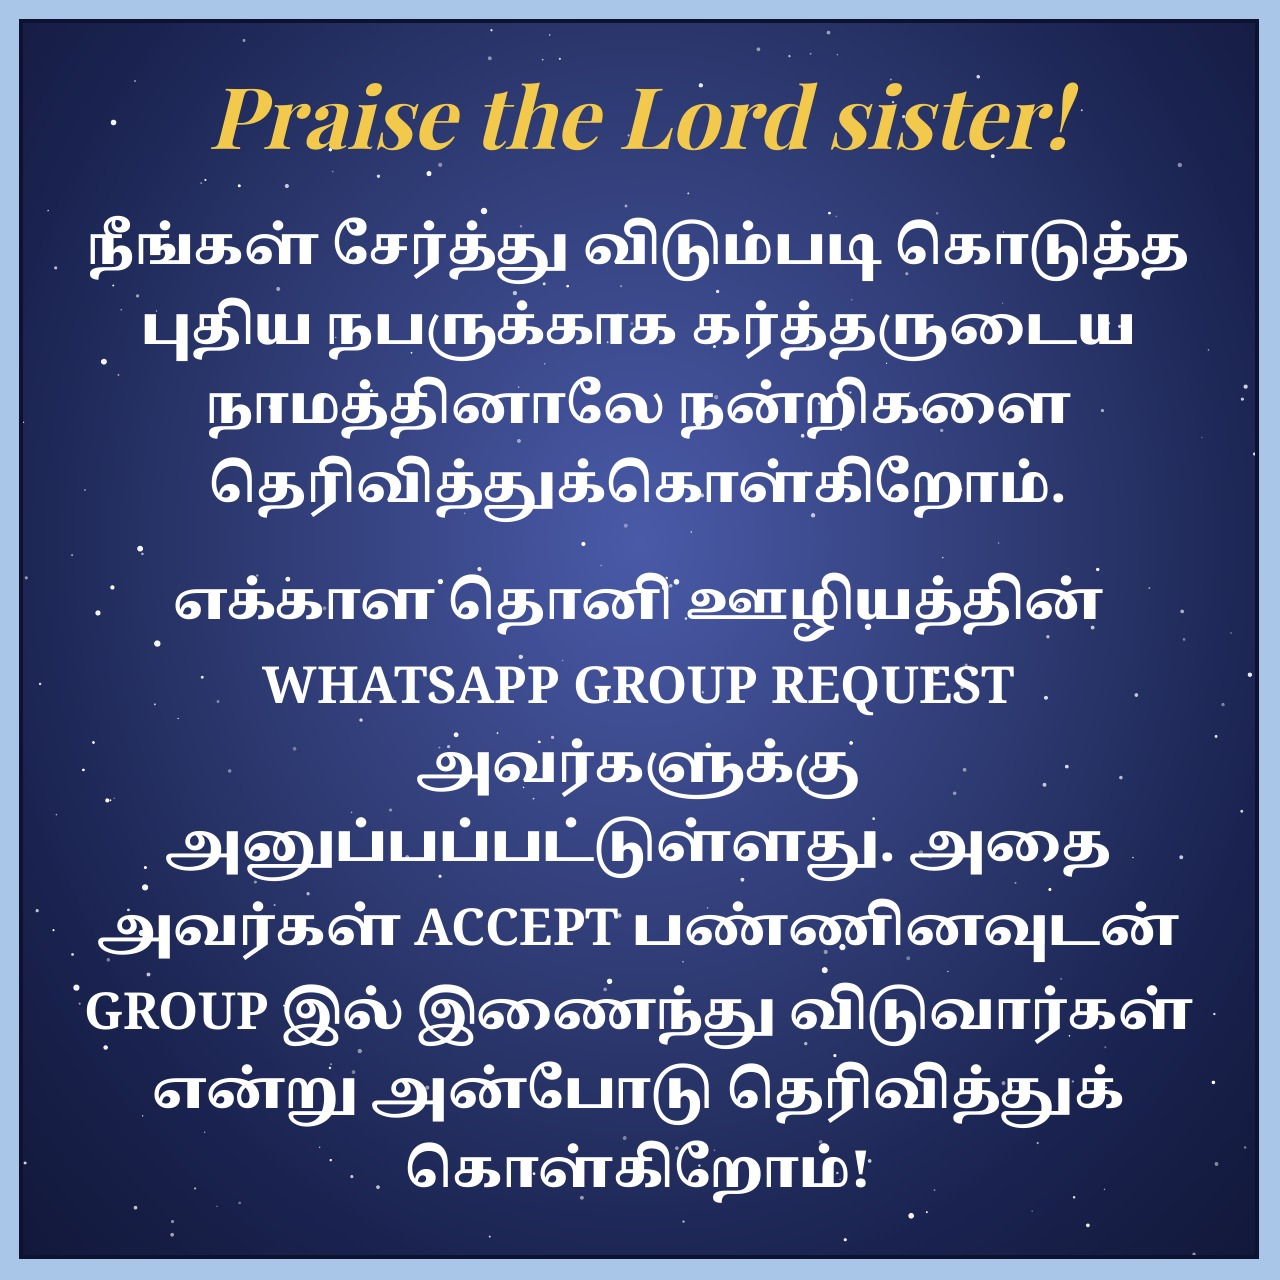
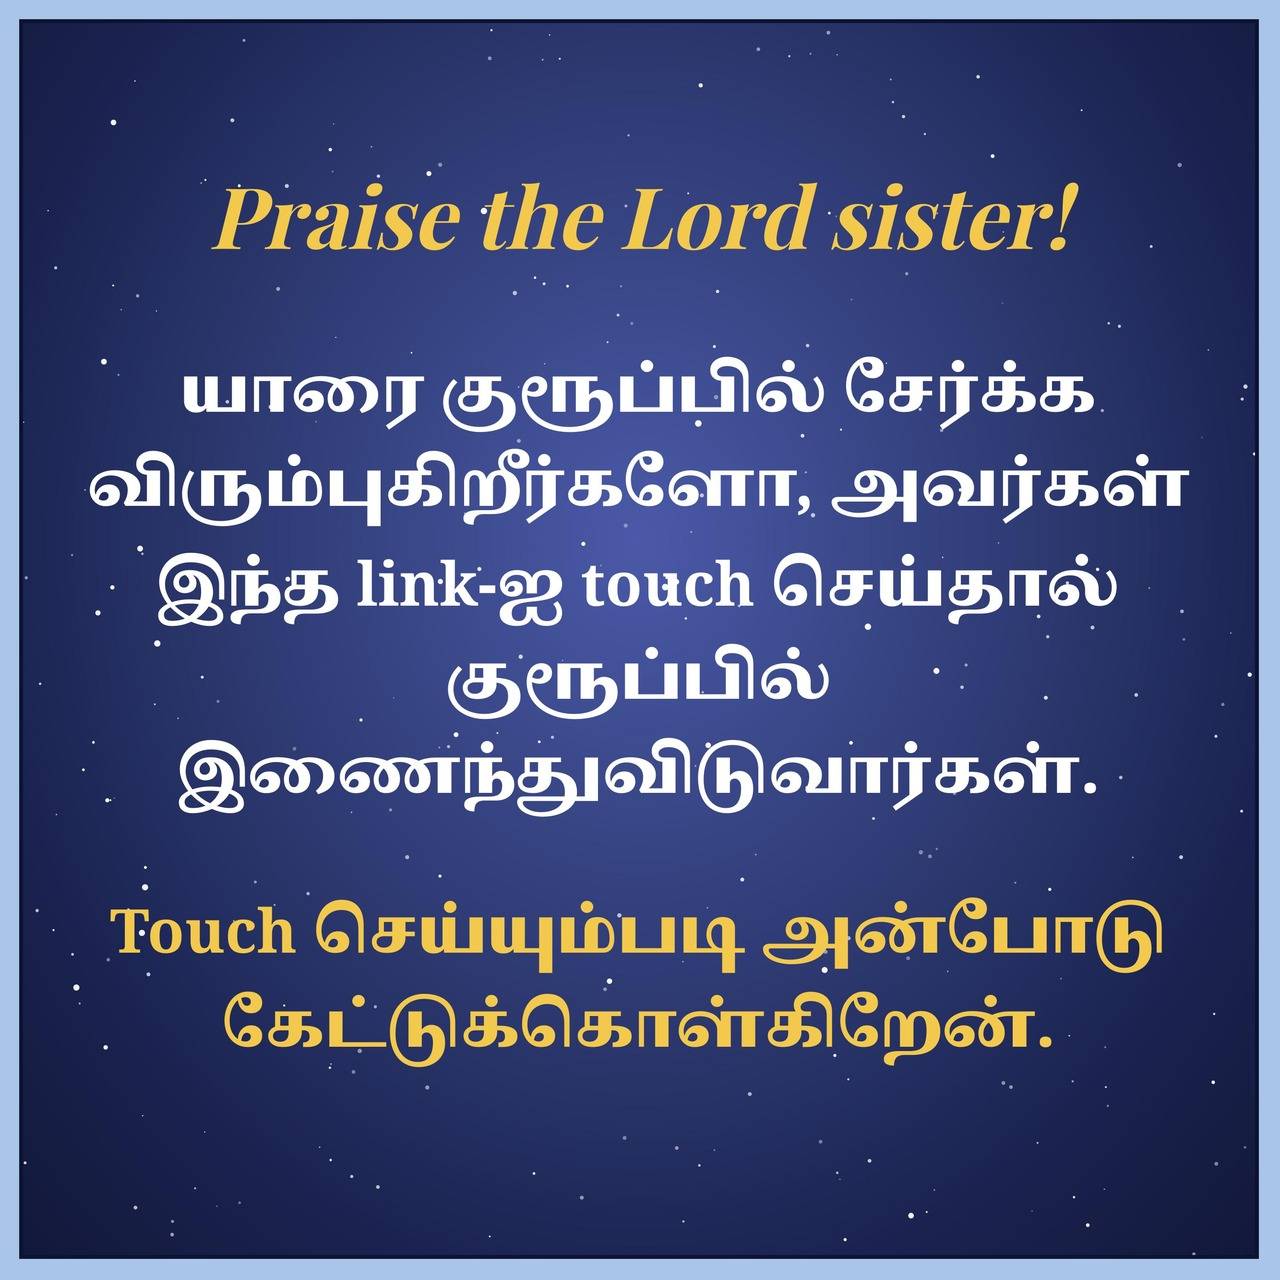
Auto-reply: 2-hour delay, screenshot OCR, Sumathi screenshot exclusion, joining button, rebuilt prayer template

Changed region(s): [[0.0625, 0.0625, 0.9375, 0.9375], [0.8438, 0.25, 0.9062, 0.2812]]

diff --git a/server.js b/server.js
@@ -9,6 +9,10 @@
  *  - Classifies the text as prayer request, offering, or joining
  *    (new member wanting to join — see classify.js).
  *  - Sends back the matching template IMAGE via the WhatsApp Cloud API.
+ *  - Replies are DELAYED: they go out 2 hours after the member messages
+ *    (REPLY_DELAY_HOURS, default 2), not immediately — Sujitha, 2026-11-21.
+ *    Queued in pending-replies.json, so a restart doesn't lose them.
+ *    Well inside WhatsApp's 24-hour service window.
  *  - If unclear, asks "Prayer request-a, Offering-a, illa Joining-a?
  *    1 / 2 / 3" (the "3" option appears only once the joining template
  *    file exists) and answers "1" with the prayer image, "2" with the
@@ -68,7 +72,12 @@ const WHISPER_MODEL = process.env.WHISPER_MODEL || 'tiny';
 const LOG_DIR = path.join(__dirname, 'logs');
 const LOG_FILE = path.join(LOG_DIR, 'replies.log');
 const PENDING_FILE = path.join(__dirname, 'pending.json');
+const REPLIES_FILE = path.join(__dirname, 'pending-replies.json');
 const DRY_RUN = process.env.DRY_RUN === '1' || !PHONE_NUMBER_ID || !ACCESS_TOKEN;
+// Reply delay: the auto-reply goes out this long AFTER the member messages,
+// not immediately (Sujitha, 2026-11-21 — "two hours"). Change with
+// REPLY_DELAY_HOURS. Well inside WhatsApp's 24-hour service window.
+const REPLY_DELAY_MS = (parseFloat(process.env.REPLY_DELAY_HOURS || '2') || 2) * 3600000;
 
 const CLARIFY_TEXT_2 =
   'Prayer request-a, illa Offering-a? 1 nu anupunga prayer ku, 2 nu anupunga offering ku.';
@@ -92,6 +101,18 @@ const TEMPLATES = {
   joining: path.join(TEMPLATES_DIR, 'joining-welcome.jpg'),
 };
 
+// Ekkala Thoni WhatsApp group joining link — sent with the joining reply
+// as a real BUTTON ("Ekkala Thoni Link") the member taps to join.
+// Change it with the JOINING_LINK env var; the default is the group's
+// invite link from the slot website ("Join Ekkala Thoni Group").
+const JOINING_LINK = process.env.JOINING_LINK || 'https://chat.whatsapp.com/F0mUV4iwdgjIRQO2MzymTO';
+const JOINING_TEXT = `எக்காள தொனி குரூப்பில் சேர, இந்த link-ஐ தொடவும்:\n${JOINING_LINK}`;
+// Body text for the joining BUTTON message (image header + button). Wrapped
+// in *...* so WhatsApp renders it BOLD. Names the button explicitly, so
+// members know exactly what to tap (Sujitha, 2026-11-21).
+const JOINING_BODY = '*எக்காள தொனி குரூப்பில் சேர, கீழே உள்ள \'EKKALA THONI LINK\' என்கிற button-ஐ தொடவும்.*';
+const JOINING_BUTTON_LABEL = 'EKKALA THONI LINK'; // max 20 chars (17) — ALL CAPS so it looks bigger and bolder
+
 fs.mkdirSync(LOG_DIR, { recursive: true });
 
 // ---- logging ----
@@ -101,7 +122,83 @@ function log(entry) {
   console.log(line);
 }
 
-// ---- pending clarification state (survives restarts) ----
+// ---- delayed reply queue (survives restarts) ----
+// Replies wait REPLY_DELAY_MS after the member's message before going out.
+// The queue is a JSON file, so a pending reply survives a server restart:
+// on startup, due replies are picked up and sent by the timer below.
+function loadReplies() {
+  try { const a = JSON.parse(fs.readFileSync(REPLIES_FILE, 'utf8')); return Array.isArray(a) ? a : []; } catch { return []; }
+}
+function saveReplies(list) {
+  fs.writeFileSync(REPLIES_FILE, JSON.stringify(list, null, 2));
+}
+// Queue a template reply for `to`, due after the delay. If the same person
+// already has the same kind pending, move it to the latest message's time
+// (so repeated messages don't pile up into several replies).
+function queueReply(to, kind, via) {
+  const list = loadReplies();
+  const sendAt = Date.now() + REPLY_DELAY_MS;
+  const existing = list.find((r) => r.to === to && r.kind === kind);
+  if (existing) { existing.sendAt = sendAt; existing.via = via; }
+  else list.push({ to, kind, via, sendAt });
+  saveReplies(list);
+  log({ event: 'reply_queued', to, kind, via, sendAt: new Date(sendAt).toISOString(), delayHours: REPLY_DELAY_MS / 3600000 });
+}
+// Queue the clarification question the same way.
+function queueClarify(to, text, reason) {
+  const list = loadReplies();
+  const sendAt = Date.now() + REPLY_DELAY_MS;
+  const existing = list.find((r) => r.to === to && r.kind === 'clarify');
+  if (existing) { existing.sendAt = sendAt; existing.text = text; }
+  else list.push({ to, kind: 'clarify', text, reason, sendAt });
+  saveReplies(list);
+  log({ event: 'clarify_queued', to, sendAt: new Date(sendAt).toISOString(), delayHours: REPLY_DELAY_MS / 3600000 });
+}
+// Send every reply whose time has come. Runs on a timer (see bottom).
+async function processDueReplies() {
+  const list = loadReplies();
+  const now = Date.now();
+  const due = list.filter((r) => r.sendAt <= now);
+  if (!due.length) return;
+  const remaining = list.filter((r) => r.sendAt > now);
+  saveReplies(remaining);
+  for (const r of due) {
+    try {
+      if (r.kind === 'clarify') {
+        if (DRY_RUN) log({ event: 'dry_run_send_text', to: r.to, text: r.text, reason: r.reason });
+        else {
+          const id = await sendText(r.to, r.text);
+          log({ event: 'clarify_sent', to: r.to, messageId: id, reason: r.reason });
+        }
+      } else {
+        await replyWithTemplate(r.to, r.kind, r.via);
+      }
+    } catch (e) {
+      log({ event: 'queued_reply_error', to: r.to, kind: r.kind, error: String(e).slice(0, 300) });
+    }
+  }
+}
+
+// ---- excluded senders (never auto-replied) ----
+// Some people only FORWARD other members' offering screenshots in bulk
+// (e.g. the sister who collects Google Pay receipts and sends 5-6 at a
+// time) — they are not offering themselves, so they must get NO reply.
+// List their WhatsApp numbers (wa_id, country code, no + or spaces) in
+// excluded.json (an array, e.g. ["919876543210"]) and/or in the
+// EXCLUDED_NUMBERS env var (comma-separated). Sujitha, 2026-11-21.
+const EXCLUDED_FILE = path.join(__dirname, 'excluded.json');
+function loadExcluded() {
+  const set = new Set();
+  try {
+    const arr = JSON.parse(fs.readFileSync(EXCLUDED_FILE, 'utf8'));
+    if (Array.isArray(arr)) for (const n of arr) set.add(String(n).replace(/\D/g, ''));
+  } catch { /* no file yet — fine */ }
+  for (const n of (process.env.EXCLUDED_NUMBERS || '').split(',')) {
+    const d = n.replace(/\D/g, '');
+    if (d) set.add(d);
+  }
+  return set;
+}
 function loadPending() {
   try { return JSON.parse(fs.readFileSync(PENDING_FILE, 'utf8')); } catch { return {}; }
 }
@@ -132,8 +229,10 @@ async function uploadImage(imagePath) {
   return body.id; // media id
 }
 
-async function sendImage(to, imagePath) {
+async function sendImage(to, imagePath, caption) {
   const mediaId = await uploadImage(imagePath);
+  const image = { id: mediaId };
+  if (caption) image.caption = caption;
   const body = await graphJson(
     `${GRAPH}/${PHONE_NUMBER_ID}/messages`,
     {
@@ -144,7 +243,7 @@ async function sendImage(to, imagePath) {
         recipient_type: 'individual',
         to,
         type: 'image',
-        image: { id: mediaId },
+        image,
       }),
     }
   );
@@ -196,6 +295,62 @@ function transcribeAudio(filePath) {
   });
 }
 
+// Payment keywords for the OCR check on receipt screenshots. A Google Pay
+// receipt shows these words / symbols; a random photo does not.
+const PAYMENT_WORDS = [
+  'google pay', 'gpay', 'phonepe', 'paytm', 'bhim', 'upi',
+  'paid', 'payment', 'sent', 'transaction', 'successful', 'success',
+  'receipt', 'rs', 'rs.', 'inr', 'rupees', '₹', 'amount',
+];
+// Read the text out of an image (tesseract OCR) and say whether it looks
+// like a payment receipt. Returns '' on any failure (treated as not a receipt).
+function ocrImage(filePath) {
+  return new Promise((resolve) => {
+    execFile('tesseract', [filePath, 'stdout', '--psm', '6'],
+      { timeout: 60000, maxBuffer: 1024 * 1024 },
+      (err, stdout) => {
+        if (err) { log({ event: 'ocr_error', error: String(err).slice(0, 200) }); return resolve(''); }
+        resolve((stdout || '').trim());
+      });
+  });
+}
+function looksLikePaymentReceipt(ocrText) {
+  const t = (ocrText || '').toLowerCase();
+  return PAYMENT_WORDS.some((w) => t.includes(w));
+}
+
+// Joining reply as ONE interactive message: the welcome image on top and a
+// real "Ekkala Thoni Link" BUTTON below it. Tapping the button opens the
+// group invite link, so the member joins the group. This is a free-form
+// interactive (cta_url) message — it needs NO template approval, it works
+// inside the 24-hour window after the member messaged first.
+async function sendJoiningButton(to) {
+  const mediaId = await uploadImage(TEMPLATES.joining);
+  const body = await graphJson(
+    `${GRAPH}/${PHONE_NUMBER_ID}/messages`,
+    {
+      method: 'POST',
+      headers: { Authorization: `Bearer ${ACCESS_TOKEN}`, 'Content-Type': 'application/json' },
+      body: JSON.stringify({
+        messaging_product: 'whatsapp',
+        recipient_type: 'individual',
+        to,
+        type: 'interactive',
+        interactive: {
+          type: 'cta_url',
+          header: { type: 'image', image: { id: mediaId } },
+          body: { text: JOINING_BODY },
+          action: {
+            name: 'cta_url',
+            parameters: { display_text: JOINING_BUTTON_LABEL, url: JOINING_LINK },
+          },
+        },
+      }),
+    }
+  );
+  return body.messages && body.messages[0] ? body.messages[0].id : JSON.stringify(body);
+}
+
 // ---- message handling ----
 async function replyWithTemplate(to, kind, via) {
   const imagePath = TEMPLATES[kind];
@@ -207,8 +362,21 @@ async function replyWithTemplate(to, kind, via) {
     log({ event: 'dry_run_send', to, kind, imagePath, via });
     return { sent: false, dryRun: true, kind };
   }
-  const messageId = await sendImage(to, imagePath);
-  log({ event: 'reply_sent', to, kind, imagePath, messageId, via });
+  if (kind === 'joining') {
+    // Try the button message first. If it fails for any reason, fall back
+    // to the image + link caption, so the member still gets the reply.
+    try {
+      const messageId = await sendJoiningButton(to);
+      log({ event: 'reply_sent', to, kind, imagePath, messageId, via, button: true });
+      return { sent: true, kind, messageId };
+    } catch (err) {
+      log({ event: 'joining_button_failed', to, error: String(err).slice(0, 300) });
+    }
+  }
+  // Prayer / offering, or joining fallback: image (+ link caption for joining).
+  const caption = kind === 'joining' ? JOINING_TEXT : undefined;
+  const messageId = await sendImage(to, imagePath, caption);
+  log({ event: 'reply_sent', to, kind, imagePath, messageId, via, caption: !!caption });
   return { sent: true, kind, messageId };
 }
 
@@ -217,6 +385,10 @@ async function handleMessage(msg) {
   const messageId = msg.id;
   const type = msg.type;
 
+  // Excluded senders are handled in the image branch below (screenshots
+  // only) — NOT here. A sister on the list still gets normal replies for
+  // prayer requests, joining and her own offering texts; only the bulk
+  // forwarded Google Pay receipt screenshots get no reply.
   let text = '';
   let source = type;
 
@@ -238,6 +410,49 @@ async function handleMessage(msg) {
         text = '';
       }
     }
+  } else if (type === 'image') {
+    // Photo message. A Google Pay receipt screenshot = offering proof
+    // (Sujitha, 2026-11-21) and gets the offering template. A random photo
+    // (a friend's photo, a snapshot, anything shared) gets NO reply.
+    // How we tell them apart: if the image has a caption, classify it;
+    // otherwise read the image with OCR and look for payment words
+    // (Google Pay / Paid / UPI / ₹ / ...). No payment words = random photo.
+    //
+    // EXCEPTION — bulk forwarders (Sujitha, 2026-11-21): the sister who
+    // collects OTHER members' Google Pay receipts and forwards 5-6 at a
+    // time is on the excluded list. Her SCREENSHOTS get NO reply at all.
+    // But if the same sister sends a prayer request, a joining request or
+    // her own offering text/voice, she DOES get the normal template.
+    if (loadExcluded().has(String(from).replace(/\D/g, ''))) {
+      log({ event: 'excluded_sender', from, messageId, type, note: 'bulk screenshot forwarder — screenshots get no reply' });
+      return;
+    }
+    const caption = (msg.image && msg.image.caption) || '';
+    if (caption.trim()) {
+      text = caption;
+      source = 'image caption';
+    } else if (DRY_RUN) {
+      // No credentials: can't download the image to OCR it. Log it and
+      // treat it as offering (the common case) so dry-run tests still flow.
+      log({ event: 'incoming', from, messageId, source: 'image (no caption, dry-run) -> offering', text: '' });
+      queueReply(from, 'offering', 'google-pay receipt screenshot (dry-run)');
+      return;
+    } else {
+      try {
+        const file = await downloadMedia(msg.image.id);
+        const ocrText = await ocrImage(file);
+        try { fs.unlinkSync(file); } catch { /* ignore */ }
+        if (looksLikePaymentReceipt(ocrText)) {
+          log({ event: 'incoming', from, messageId, source: 'image OCR -> payment receipt -> offering', text: ocrText.slice(0, 200) });
+          queueReply(from, 'offering', 'google-pay receipt screenshot');
+        } else {
+          log({ event: 'image_ignored', from, messageId, reason: 'no payment words in OCR text — random photo, no reply', ocrText: ocrText.slice(0, 200) });
+        }
+      } catch (e) {
+        log({ event: 'image_error', from, messageId, error: String(e).slice(0, 300) });
+      }
+      return;
+    }
   } else {
     log({ event: 'ignored_type', from, messageId, type });
     return;
@@ -257,7 +472,7 @@ async function handleMessage(msg) {
       log({ event: 'joining_no_template', from, messageId, note: 'member answered 3 but no joining template file yet' });
       return;
     }
-    await replyWithTemplate(from, kind, 'clarification-answer');
+    queueReply(from, kind, 'clarification-answer');
     return;
   }
 
@@ -269,24 +484,14 @@ async function handleMessage(msg) {
       log({ event: 'joining_no_template', from, messageId, text: text.slice(0, 200), reason: result.reason });
       return;
     }
-    await replyWithTemplate(from, result.kind, result.reason);
+    queueReply(from, result.kind, result.reason);
     return;
   }
 
   // Unclear (including empty transcription): ask which one it is.
   pending[from] = { askedAt: new Date().toISOString(), text: text.slice(0, 200) };
   savePending(pending);
-  const clarify = clarifyText();
-  if (DRY_RUN) {
-    log({ event: 'dry_run_send_text', to: from, text: clarify, reason: result.reason });
-  } else {
-    try {
-      const id = await sendText(from, clarify);
-      log({ event: 'clarify_sent', to: from, messageId: id, reason: result.reason });
-    } catch (e) {
-      log({ event: 'clarify_error', to: from, error: String(e).slice(0, 300) });
-    }
-  }
+  queueClarify(from, clarifyText(), result.reason);
 }
 
 // ---- HTTP server ----
@@ -336,6 +541,8 @@ const server = http.createServer((req, res) => {
     res.end(JSON.stringify({
       ok: true,
       dryRun: DRY_RUN,
+      replyDelayHours: REPLY_DELAY_MS / 3600000,
+      pendingReplies: loadReplies().length,
       templates: {
         prayer: fs.existsSync(TEMPLATES.prayer),
         offering: fs.existsSync(TEMPLATES.offering),
@@ -354,9 +561,15 @@ const server = http.createServer((req, res) => {
 server.listen(PORT, () => {
   console.log(`Ekkala Thoni WhatsApp auto-reply listening on port ${PORT}`);
   console.log(`DRY_RUN=${DRY_RUN} (no Meta credentials => classify + log only)`);
+  console.log(`Reply delay: ${REPLY_DELAY_MS / 3600000} hours after the member messages (change with REPLY_DELAY_HOURS)`);
   console.log(`Templates: prayer=${TEMPLATES.prayer} (${fs.existsSync(TEMPLATES.prayer) ? 'found' : 'MISSING'})`);
   console.log(`           offering=${TEMPLATES.offering} (${fs.existsSync(TEMPLATES.offering) ? 'found' : 'MISSING'})`);
   console.log(`           joining=${TEMPLATES.joining} (${fs.existsSync(TEMPLATES.joining) ? 'found' : 'NOT SENT YET — joining messages will be logged, not auto-replied'})`);
   console.log(`Verify token: ${VERIFY_TOKEN === 'ekkala-thoni-verify' ? 'DEFAULT — set WHATSAPP_VERIFY_TOKEN in .env' : 'set'}`);
   console.log(`Log file: ${LOG_FILE}`);
 });
+
+// Every 30 seconds, send any queued reply whose 2-hour wait is over.
+// Also runs once at startup, so replies queued before a restart still go out.
+setInterval(() => { processDueReplies().catch((e) => log({ event: 'queue_timer_error', error: String(e).slice(0, 200) })); }, 30000);
+processDueReplies().catch((e) => log({ event: 'queue_startup_error', error: String(e).slice(0, 200) }));
